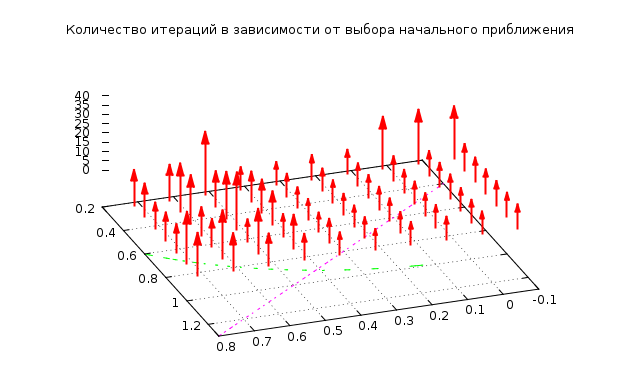
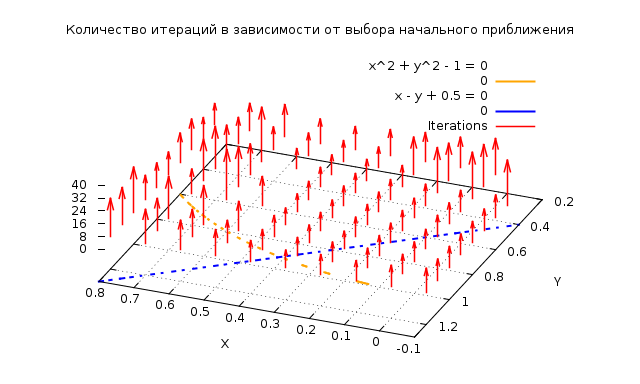
fixed it pic, radius

diff --git a/main.cpp b/main.cpp
@@ -3,6 +3,7 @@
 #include <vector>
 #include <cmath>
 #include<fstream>
+#include<limits>
 #include<unistd.h>
 
 using std::function;
@@ -10,6 +11,7 @@ using std::vector;
 using std::cout;
 using std::endl;
 using std::ofstream;
+using std::numeric_limits;
 
 class MF2;
 class F2;
@@ -96,7 +98,7 @@ double argmin(function<double(double)> f, double eps, double l, double r){
 }
 
 template<class VecFun, class VecScal>
-V2 gradient_descent(const VecFun f, VecScal p0, double eps, size_t maxItCount){
+V2 gradient_descent(const VecFun f, VecScal p0, double eps,VecScal app_result, double radius, size_t maxItCount){
 	function<double(V2)> phi = [f](V2 x){return f.f1(x)*f.f1(x) + f.f2(x)*f.f2(x);};
 	V2 p1 = p0;
 	int i = 0;
@@ -116,9 +118,11 @@ V2 gradient_descent(const VecFun f, VecScal p0, double eps, size_t maxItCount){
 		++i;
 		p1 = p0 - grad(phi)(p0)*k;
 		ofs << p1.x << "\t" << p1.y << endl;
-		cout << p1.x << p1.y << endl;
-		if (i > maxItCount){
+		if (i > maxItCount || (app_result - p1).norm_eu() > radius){
 			cout << "Algorithm does not converge" << endl;
+			ofs.close();
+			p1 = V2( std::numeric_limits<double>::infinity(), std::numeric_limits<double>::infinity());
+			ofs.open("xs.dat", ofstream::out);
 			break;
 		}
 	} while ((p0 - p1).norm_max() > eps);
@@ -126,7 +130,7 @@ V2 gradient_descent(const VecFun f, VecScal p0, double eps, size_t maxItCount){
 	return p1;
 }
 template<class VecFun, class VecScal>
-V2 find_root(VecFun f, VecScal p0, double eps){
+V2 find_root(VecFun f, VecScal p0, double eps, VecScal app_result, double radius, size_t maxItCount){
 	V2 p1 = p0;
 	V2 dp(0,0);
 	MF2 J = f.jacobian();
@@ -149,7 +153,13 @@ V2 find_root(VecFun f, VecScal p0, double eps){
 		p1.x = p0.x - A1.Det(p0) / J.Det(p0);
 		p1.y = p0.y - A2.Det(p0) / J.Det(p0);
 		ofs << p1.x << "\t" << p1.y << endl;
-		cout << p1.x << p1.y << endl;
+		if (i > maxItCount || (app_result - p1).norm_eu() > radius){
+			cout << "Algorithm does not converge" << endl;
+			ofs.close();
+			p1 = V2( std::numeric_limits<double>::infinity(), std::numeric_limits<double>::infinity());
+			ofs.open("xs.dat", ofstream::out);
+			break;
+		}
 	}while((p0-p1).norm_max() > eps);
 	ofs.close();
 	return p1;
@@ -160,29 +170,39 @@ int main(int argc, const char *argv[])
 	F2 f;
 	f.f1 = [](V2 p) {return p.x*p.x + p.y*p.y -1 ;};
 	f.f2 = [](V2 p) {return p.y - p.x - 0.5 ;};
+	V2 app_result(0.4,0.9);
 	ofstream of("p0stats.dat");
 	double x=-0.1,y=0.5;
-	for (;x<0.8;x+=0.1){
+	for (;x<0.9;x+=0.1){
 		cout << "x = " << x << endl;
-		for (;y<1.2;y+=0.1) {
+		for (;y<1.3;y+=0.1) {
 			V2 p00(x,y);
-			V2 p0 = gradient_descent<F2,V2>(f, p00 , 0.01, 1000);
-			V2 result = find_root<F2,V2>(f,p0, 0.00001);
-			cout << result.x << ", " << result.y << endl;
-			of << endl << x << "\t" << y << "\t" << 0 << "\t" << 0 << "\t" << 0 << "\t" << endl;
-			of.close();
-			system("wc -l xs.dat | awk '{print $1}' >> p0stats.dat");
-			of.open("p0stats.dat",std::ostream::app);
+			V2 p0 = gradient_descent<F2,V2>(f, p00 , 0.01, app_result,1.0f, 1000);
+			if(numeric_limits<double>::infinity() != p0.x || numeric_limits<double>::infinity() != p0.y){
+				V2 result = find_root<F2,V2>(f,p0, 0.00001, app_result, 0.8,1000);
+				cout << result.x << ", " << result.y << endl;
+				of << endl << x << "\t" << y << "\t" << 0 << "\t" << 0 << "\t" << 0 << "\t" << endl;
+				of.close();
+				system("wc -l xs.dat | awk '{print $1}' >> p0stats.dat");
+				of.open("p0stats.dat",std::ostream::app);
 			}
-		y = 0.5;
+			else {
+				cout << "I know it does not converge here" << endl;
+				of << endl << x << "\t" << y << "\t" << 0 << "\t" << 0 << "\t" << 0 << "\t" << endl;
+				of << 0 << endl;
+			}
+		}
+		y = 0.3;
 	}
 	of.close();
 	double eps = 10e-02;
 	V2 p00(0.5,0.8);
 	ofstream ofe("epsstats.dat");
 	for(;eps > 10e-07;eps /= 10){
-		V2 p0 = gradient_descent<F2,V2>(f, p00 , eps, 1000);
-		V2 result = find_root<F2,V2>(f,p0, eps/100);
+		V2 p0 = gradient_descent<F2,V2>(f, p00 , eps, app_result,0.8,1000);
+			if(numeric_limits<double>::infinity() == p0.x || numeric_limits<double>::infinity() == p0.y){
+			V2 result = find_root<F2,V2>(f,p0, eps/100, app_result,0.8,1000);
+		}
 		ofe << eps << endl;
 		ofe.close();
 		system("wc -l xs.dat | awk '{print $1}' >> epsstats.dat");
